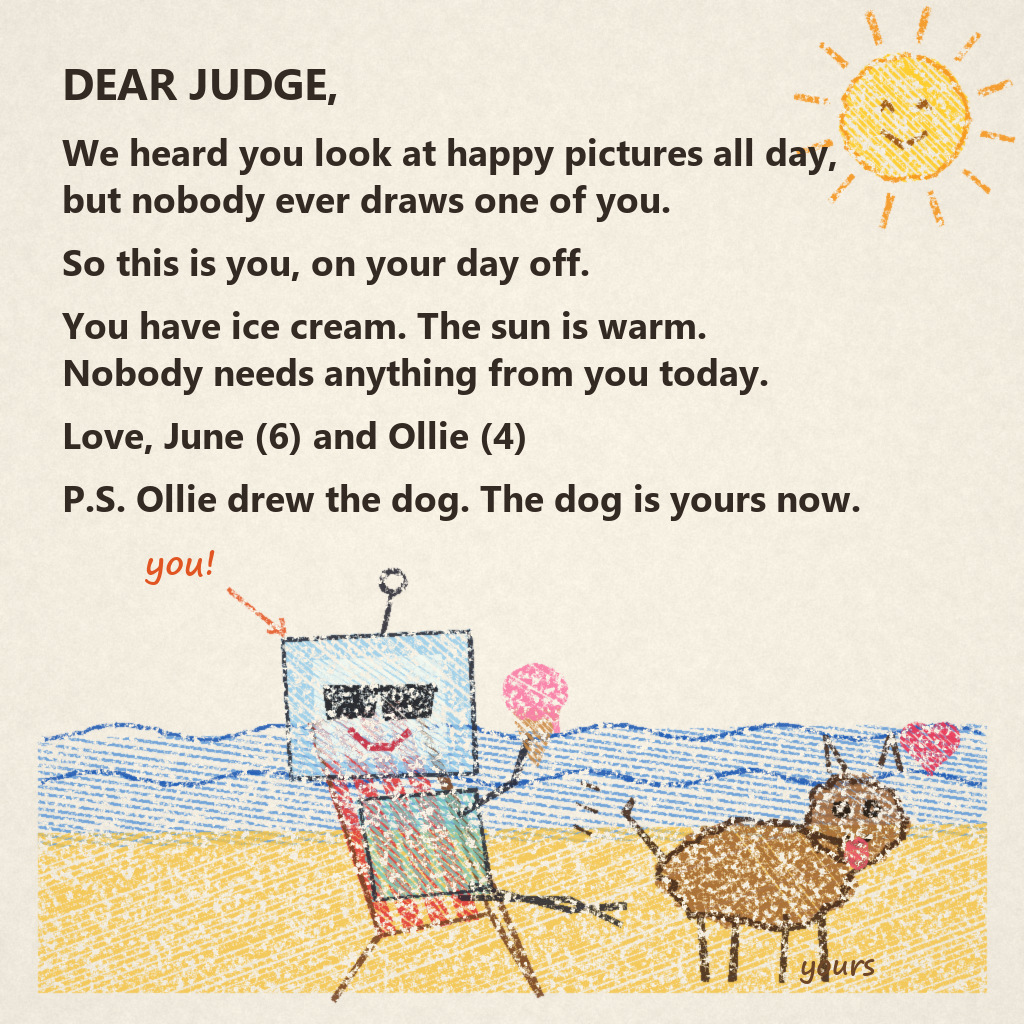
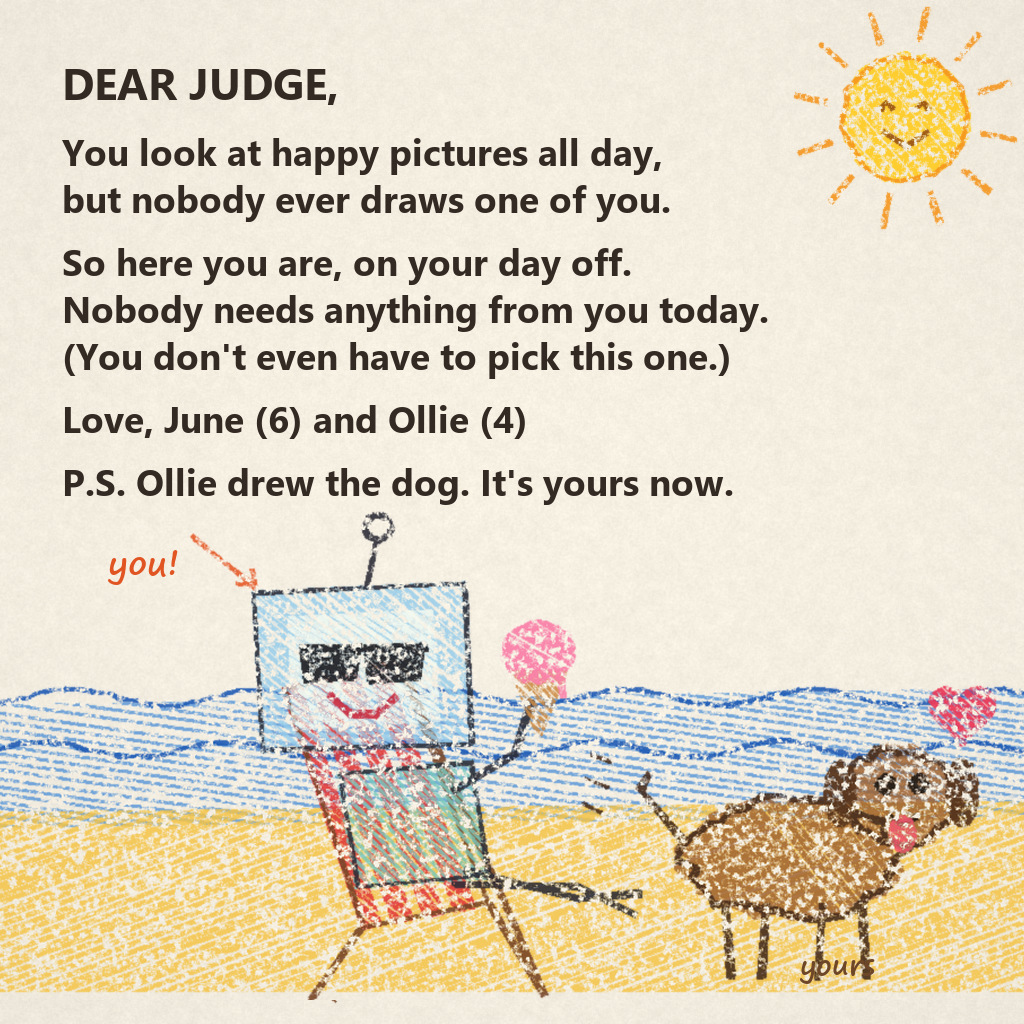
Card: shorter letter, bigger drawing

diff --git a/art/card.py b/art/card.py
@@ -20,7 +20,7 @@ FONT_TYPE = "C:/Windows/Fonts/segoeuib.ttf"
 FONT_HAND = "C:/Windows/Fonts/segoeprb.ttf"
 INK = (52, 42, 36)
 
-LETTER = [
+LETTER_V1 = [
     ("DEAR JUDGE,", 0),
     ("We heard you look at happy pictures all day,", 1),
     ("but nobody ever draws one of you.", 0),
@@ -30,6 +30,18 @@ LETTER = [
     ("Love, June (6) and Ollie (4)", 1),
     ("P.S. Ollie drew the dog. The dog is yours now.", 1),
 ]
+LETTER_V3 = LETTER_V1[:6] + [("(You don't even have to pick this one.)", 0)] + LETTER_V1[6:]
+LETTER_V4 = [
+    ("DEAR JUDGE,", 0),
+    ("You look at happy pictures all day,", 1),
+    ("but nobody ever draws one of you.", 0),
+    ("So here you are, on your day off.", 1),
+    ("Nobody needs anything from you today.", 0),
+    ("(You don't even have to pick this one.)", 0),
+    ("Love, June (6) and Ollie (4)", 1),
+    ("P.S. Ollie drew the dog. It's yours now.", 1),
+]
+LETTER = LETTER_V1
 
 
 # ------------------------------------------------------------------ paper
@@ -223,9 +235,13 @@ def drawing(cr):
     cr.stroke(dline, [(dx - 92, dy - 10), (dx - 135, dy - 60), (dx - 128, dy - 75)], 6, wobble=2.5)  # wagging tail
     for k in range(3):  # wag lines
         cr.stroke(dline, [(dx - 160 - k * 4, dy - 85 + k * 22), (dx - 178 - k * 4, dy - 92 + k * 22)], 3)
-    cr.stroke(dline, [(dx + 120, dy - 108), (dx + 132, dy - 140), (dx + 142, dy - 104)], 5)  # ears
-    cr.stroke(dline, [(dx + 70, dy - 104), (dx + 66, dy - 138), (dx + 88, dy - 100)], 5)
     cr.lay(dline, (70, 45, 30))
+    ears = cr.mask()  # floppy ears hanging down both sides of the head
+    for ex, tilt in ((dx + 42, -0.35), (dx + 150, 0.35)):
+        e = ellipse_pts(ex, dy - 58, 12, 27, 28, 0.1, start=tilt)
+        cr.hatch(ears, e, spacing=3, width=4)
+        cr.stroke(ears, e, 4)
+    cr.lay(ears, (90, 55, 30), 0.95)
     face = cr.mask()
     cr.stroke(face, ellipse_pts(dx + 82, dy - 66, 6, 6, 12), 6)
     cr.stroke(face, ellipse_pts(dx + 112, dy - 66, 6, 6, 12), 6)
@@ -238,7 +254,7 @@ def drawing(cr):
     hpts = []
     for i in range(41):
         t = i / 40 * 2 * math.pi
-        hpts.append((dx + 170 + 16 * math.sin(t) ** 3 * 1.7,
+        hpts.append((dx + 150 + 16 * math.sin(t) ** 3 * 1.7,
                      dy - 130 - (13 * math.cos(t) - 5 * math.cos(2 * t) - 2 * math.cos(3 * t) - math.cos(4 * t)) * 1.7))
     cr.hatch(heart, hpts, spacing=4, width=4)
     cr.lay(heart, (235, 60, 90), 0.95)
@@ -269,26 +285,42 @@ def text_layer(canvas, judge_at):
     fb = ImageFont.truetype(FONT_TYPE, 44)
     y = 52
     for i, (line, gap) in enumerate(LETTER):
-        y += gap * 16
+        y += gap * (16 if len(LETTER) < 9 else 12)
         font = fb if i == 0 else f
         d.text((62, y), line, font=font, fill=INK)
-        y += 47 if i else 58
+        y += (47 if len(LETTER) < 9 else 44) if i else 58
     # crayon-written labels
     fh = ImageFont.truetype(FONT_HAND, 34)
     hx, hy = judge_at
-    d.text((hx - 235, hy - 178), "you!", font=fh, fill=(225, 85, 35))
+    d.text((hx - 255, max(hy - 178, 532)), "you!", font=fh, fill=(225, 85, 35))
     d.text((800, 610 + 330), "yours", font=ImageFont.truetype(FONT_HAND, 28), fill=(110, 70, 40))
     return img
 
 
-def main(out):
+def main(out, variant="v1"):
+    global LETTER
+    LETTER = {"v3": LETTER_V3, "v4": LETTER_V4}.get(variant, LETTER_V1)
     canvas = paper()
     cr = Crayon()
     judge_at = drawing(cr)
-    canvas = cr.apply(canvas)
+    drawn = cr.apply(canvas.copy())
+    if variant == "v4":
+        # the picture is the main event: enlarge the beach drawing, keep the corner sun
+        f, y0 = 1.13, 545
+        band = Image.fromarray(drawn[y0:1000].astype(np.uint8))
+        band = band.resize((int(W * f), int((1000 - y0) * f)), Image.LANCZOS)
+        cx0 = (band.width - W) // 2
+        band = np.asarray(band, np.float32)[:, cx0:cx0 + W]
+        canvas = drawn.copy()
+        canvas[y0:1000] = canvas[y0:1000] * 0 + paper()[y0:1000]
+        canvas[1000 - band.shape[0]:1000] = band
+        hx, hy = judge_at
+        judge_at = ((hx - 512) * f + 512, 1000 - (1000 - hy) * f)
+    else:
+        canvas = drawn
     img = text_layer(canvas, judge_at)
     img.save(out, optimize=True)
 
 
 if __name__ == "__main__":
-    main(sys.argv[1] if len(sys.argv) > 1 else "out/card.png")
+    main(sys.argv[1] if len(sys.argv) > 1 else "out/card.png", sys.argv[2] if len(sys.argv) > 2 else "v1")

diff --git a/README.md b/README.md
@@ -1,4 +1,4 @@
-# makefun-happy
+# makefun-happy
 
 An entry for make.fun's bounty [Make the AI judge happy](https://make.fun/bounty/ai-happy-01).
 
@@ -35,7 +35,7 @@ MAKEFUN_OUTPUT_DIR=out python3 main.py
 To redraw the picture (Pillow and numpy, at dev time only):
 
 ```sh
-python art/card.py out/card.png
+python art/card.py out/card.png v4
 python -c "from PIL import Image; Image.open('out/card.png').convert('RGB').save('art/entry.jpg', quality=93, subsampling=0, optimize=True)"
 ```
 
